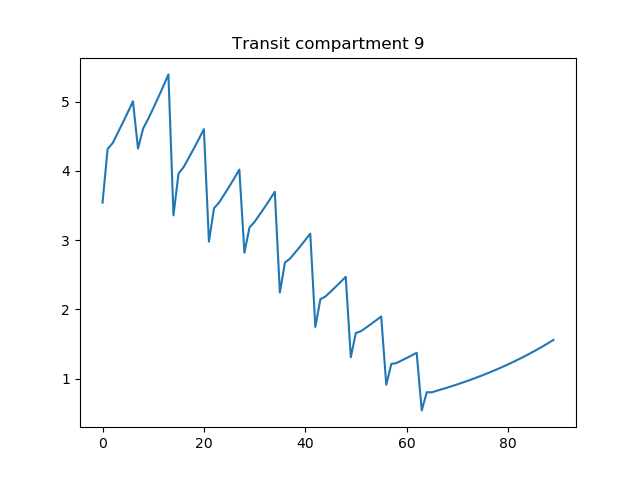
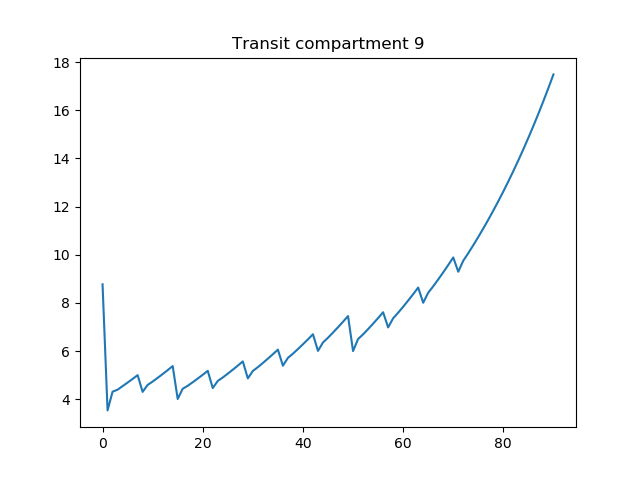
Added initial conds to history. Fixed legend.

diff --git a/AlphaSilico/src/printer.py b/AlphaSilico/src/printer.py
@@ -5,73 +5,78 @@ import matplotlib.pyplot as plt
 # Local
 from AlphaSilico.src.insilico import Environment
 
-# Number of doses per day of treatment.
-min_doses = 0
-max_doses = 4
-treatment_start = 0
-treatment_len = 75  # Treatment length in months
-observation_len = 90  # Observation period length, including treatment
 
-# Random treatment
-treatment = np.transpose(np.array([np.random.randint(min_doses, max_doses+1, size=int(treatment_len)), np.random.randint(min_doses, max_doses+1, size=int(treatment_len))]))
+def standard_treatment():
 
-# Models
-# Treated tumor
-env = Environment(treatment_len=treatment_len, observation_len=observation_len, treatment_start=treatment_start)
-for day in range(observation_len):
-    actions = (0, 0)
-    if day < int(treatment_len):
-        actions = (treatment[day][0], treatment[day][1])
-    env.step(actions)
+    # Simulation and treatment parameters
+    min_doses = 1
+    max_doses = 2
+    treatment_start = 0
+    treatment_len = 75  # Treatment length in days
+    observation_len = 90  # Observation period length, including treatment
 
-tumor_size, cumulative_tumor_burden = env.evaluate_obective()  # Compute the objective function from the history
+    # Random treatment
+    treatment = np.transpose(np.array([np.random.randint(min_doses, max_doses+1, size=treatment_len), np.random.randint(min_doses, max_doses+1, size=treatment_len)]))
 
-# Untreated tumor, control group
-control = Environment(treatment_len=treatment_len, observation_len=observation_len, treatment_start=treatment_start)
-for _ in range(observation_len):
-    actions = (0, 0)
-    control.step(actions)
-control_size, control_ctb = control.evaluate_obective()
+    # Models
+    # Treated tumor
+    env = Environment(treatment_len=treatment_len, observation_len=observation_len, treatment_start=treatment_start)
+    for day in range(observation_len):
+        actions = (0, 0)
+        if day < treatment_len:
+            actions = (treatment[day][0], treatment[day][1])
+        env.step(actions)
 
-print('Plotting...')
-titles = ['Quiescent cells', 'G1 cells', 'Infected cells', 'Virions'] + \
-         ['Transit compartment ' + str(n+1) for n in range(env.state.j)] + \
-         ['Cytokines', 'Phagocytes', 'Total number of cells in cycle', 'Resistant quiescent cells', 'Resistant G1 cells'] + \
-         ['Resistant transit compartment ' + str(n+1) for n in range(env.state.j)] + \
-         ['Total number of resistant cells in cycle']
+    tumor_size, cumulative_tumor_burden = env.evaluate_obective()  # Compute the objective function from the history
 
-# Print tracked quantities
-for idx, quantity in enumerate(env.history['y'].transpose()):
+    # Untreated tumor, control group
+    control = Environment(treatment_len=treatment_len, observation_len=observation_len, treatment_start=treatment_start)
+    for _ in range(observation_len):
+        actions = (0, 0)
+        control.step(actions)
+    control_size, control_ctb = control.evaluate_obective()
+
+    print('Plotting...')
+    titles = ['Quiescent cells', 'G1 cells', 'Infected cells', 'Virions'] + \
+             ['Transit compartment ' + str(n+1) for n in range(env.state.j)] + \
+             ['Cytokines', 'Phagocytes', 'Total number of cells in cycle', 'Resistant quiescent cells', 'Resistant G1 cells'] + \
+             ['Resistant transit compartment ' + str(n+1) for n in range(env.state.j)] + \
+             ['Total number of resistant cells in cycle']
+
+    # Print tracked quantities
+    for idx, quantity in enumerate(env.history['y'].transpose()):
+        plt.figure()
+        plt.plot(np.arange(0, observation_len + env.dt, env.dt), quantity)
+        plt.title(titles[idx])
+        plt.savefig('outputs/' + str(idx) + '_' + titles[idx] + '.png')
+
+    # Print main metric (tumor size)
+    fig, ax1 = plt.subplots()
+    ax1.set_xlabel('Time (days)')
+    ax1.set_ylabel('Tumor size')
+    line1 = ax1.plot(np.arange(0, observation_len + env.dt, env.dt), tumor_size, '--', c=(0, 0.6, 0), label='Tumor size, test')
+    line2 = ax1.plot(np.arange(0, observation_len + env.dt, control.dt), control_size, '-', c=(0.2, 0, 0), label='Tumor size, control')
+    ax1.tick_params(axis='y')
+    ax2 = ax1.twinx()
+    ax2.set_ylabel('Cumulative burden')
+    line3 = ax2.plot(np.arange(0, observation_len, env.dt), cumulative_tumor_burden, '--', c=(0, 0.8, 0), label='Cumulative burden, test')
+    line4 = ax2.plot(np.arange(0, observation_len, control.dt), control_ctb, '-', c=(0.8, 0, 0), label='Cumulative burden, control')
+    ax2.tick_params(axis='y')
+    fig.tight_layout(rect=[0, 0.03, 1, 0.95])
+    lines = line1+line2+line3+line4
+    plt.legend(lines, [l.get_label() for l in lines])
+    plt.title('Tumor growth')
+    plt.savefig('outputs/Objective.png')
+
+    # Print dosages vs time
     plt.figure()
-    plt.plot(np.arange(0, observation_len, env.dt), quantity)
-    plt.title(titles[idx])
-    plt.savefig('outputs/' + str(idx) + '_' + titles[idx] + '.png')
+    plt.plot(env.state.dose_history['immunotherapy']['t'][0:3000], env.state.dose_history['immunotherapy']['y'][0:3000])
+    plt.xlabel('Temps (jours)')
+    plt.ylabel('Cytokines')
+    plt.savefig('outputs/Immunotherapy_doses.png')
 
-# Print main metric (tumor size)
-fig, ax1 = plt.subplots()
-ax1.set_xlabel('Time (days)')
-ax1.set_ylabel('Tumor size (number of cells)')
-ax1.plot(np.arange(0, observation_len, env.dt), tumor_size, '--', c=(0, 0.6, 0), label='Tumor size, test')
-ax1.plot(np.arange(0, observation_len, control.dt), control_size, '-', c=(0.2, 0, 0), label='Tumor size, control')
-ax1.tick_params(axis='y')
-ax2 = ax1.twinx()
-ax2.set_ylabel('Cumulative burden')
-ax2.plot(np.arange(0, observation_len - env.dt, env.dt), cumulative_tumor_burden, '--', c=(0, 0.8, 0), label='Cumulative burden, test')
-ax2.plot(np.arange(0, observation_len - control.dt, control.dt), control_ctb, '-', c=(0.8, 0, 0), label='Cumulative burden, control')
-ax2.tick_params(axis='y')
-fig.tight_layout(rect=[0, 0.03, 1, 0.95])  # otherwise the right y-label is slightly clipped
-plt.title('Tumor growth')
-plt.legend()
-plt.savefig('outputs/Tumor size.png')
-
-
-# Print dosages vs time
-plt.figure()
-plt.plot(env.state.dose_history['immunotherapy']['t'][0:2500], env.state.dose_history['immunotherapy']['y'][0:2500])
-plt.title('Immunotherapy vs time')
-plt.savefig('outputs/Immunotherapy_doses.png')
-
-plt.figure()
-plt.plot(env.state.dose_history['virotherapy']['t'], env.state.dose_history['virotherapy']['y'])
-plt.title('Virotherapy vs time')
-plt.savefig('outputs/Virotherapy_doses.png')
+    plt.figure()
+    plt.plot(env.state.dose_history['virotherapy']['t'][0:3000], env.state.dose_history['virotherapy']['y'][0:3000])
+    plt.xlabel('Temps (jours)')
+    plt.ylabel('Virus')
+    plt.savefig('outputs/Virotherapy_doses.png')

diff --git a/AlphaSilico/src/insilico.py b/AlphaSilico/src/insilico.py
@@ -30,8 +30,8 @@ class Environment:
         self.t = 0  # Current time in days
         self.dt = 1  # Step size in days
         self.y = np.array(self.state.initial_conditions)  # Current solution
-        self.history = {'t': np.empty(0),
-                        'y': np.empty(shape=(0, len(self.state.initial_conditions)))
+        self.history = {'t': np.array([self.t]),
+                        'y': np.array([self.state.initial_conditions])
                         }
 
     def evaluate_obective(self):
@@ -62,8 +62,8 @@ class Environment:
         self.state = State(treatment_start=0, treatment_len=treatment_len, immunotherapy_offset=self.immunotherapy_offset, virotherapy_offset=self.virotherapy_offset)
         self.t = 0
         self.y = np.array(self.state.initial_conditions)  # Current solution
-        self.history = {'t': np.empty(0),
-                        'y': np.empty(shape=(0, len(self.state.initial_conditions)))
+        self.history = {'t': np.array([self.t]),
+                        'y': np.array([self.state.initial_conditions])
                         }
 
     def step(self, actions=(0, 0), verbose=True):
